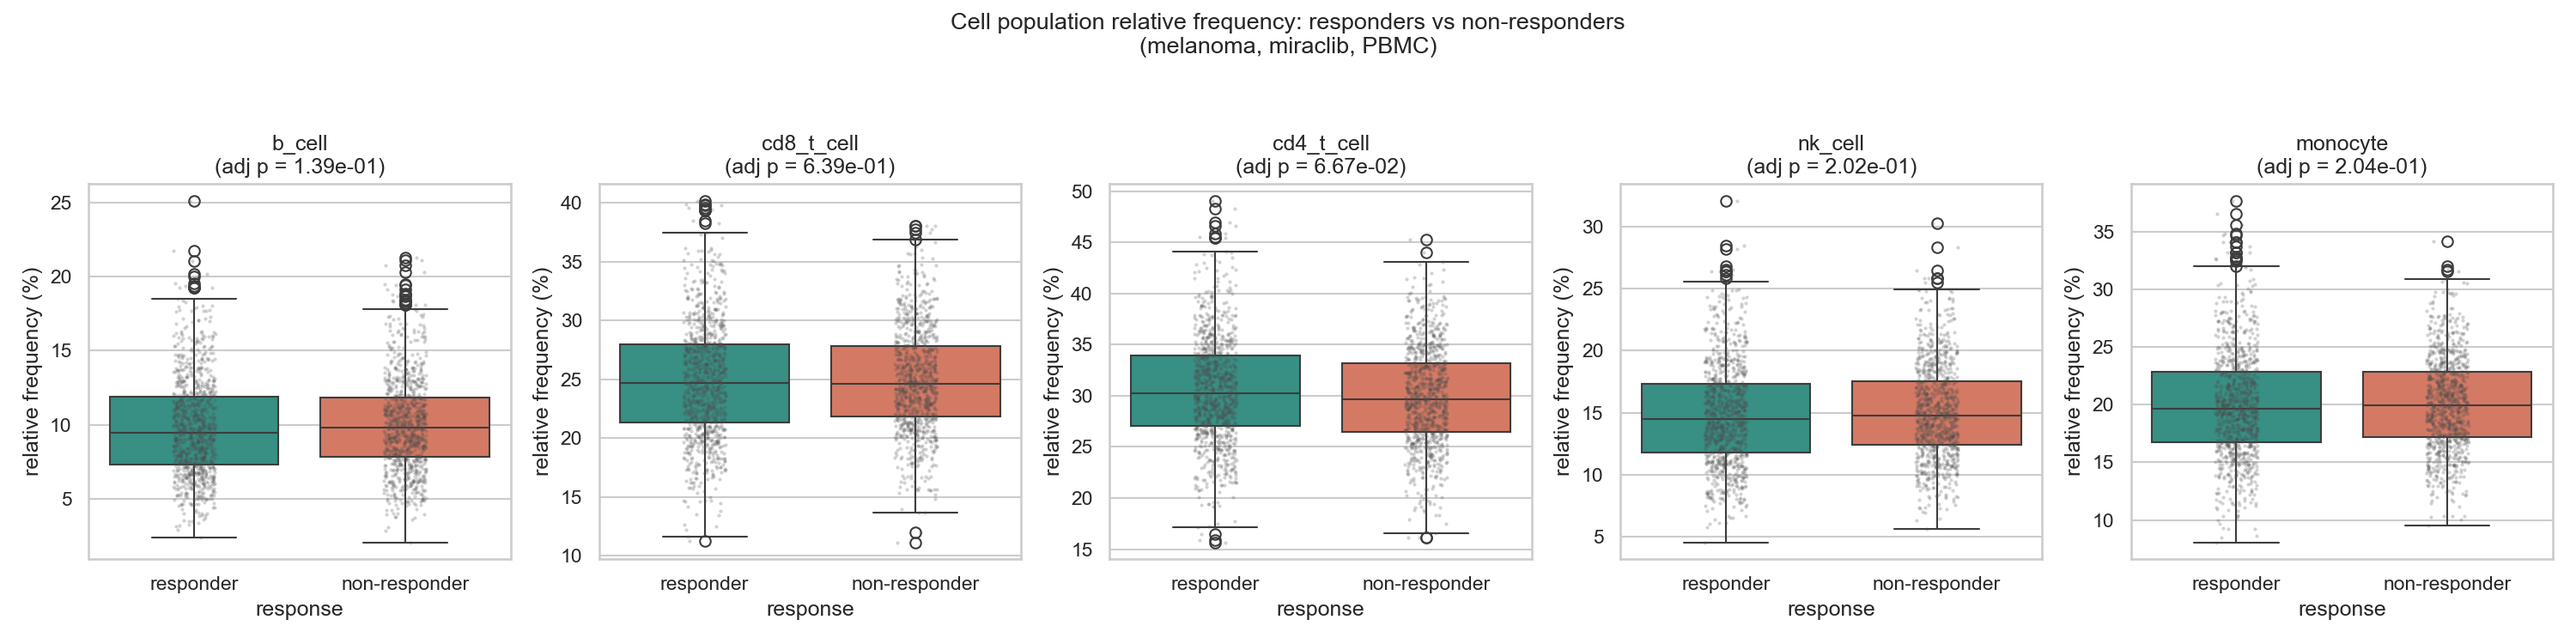
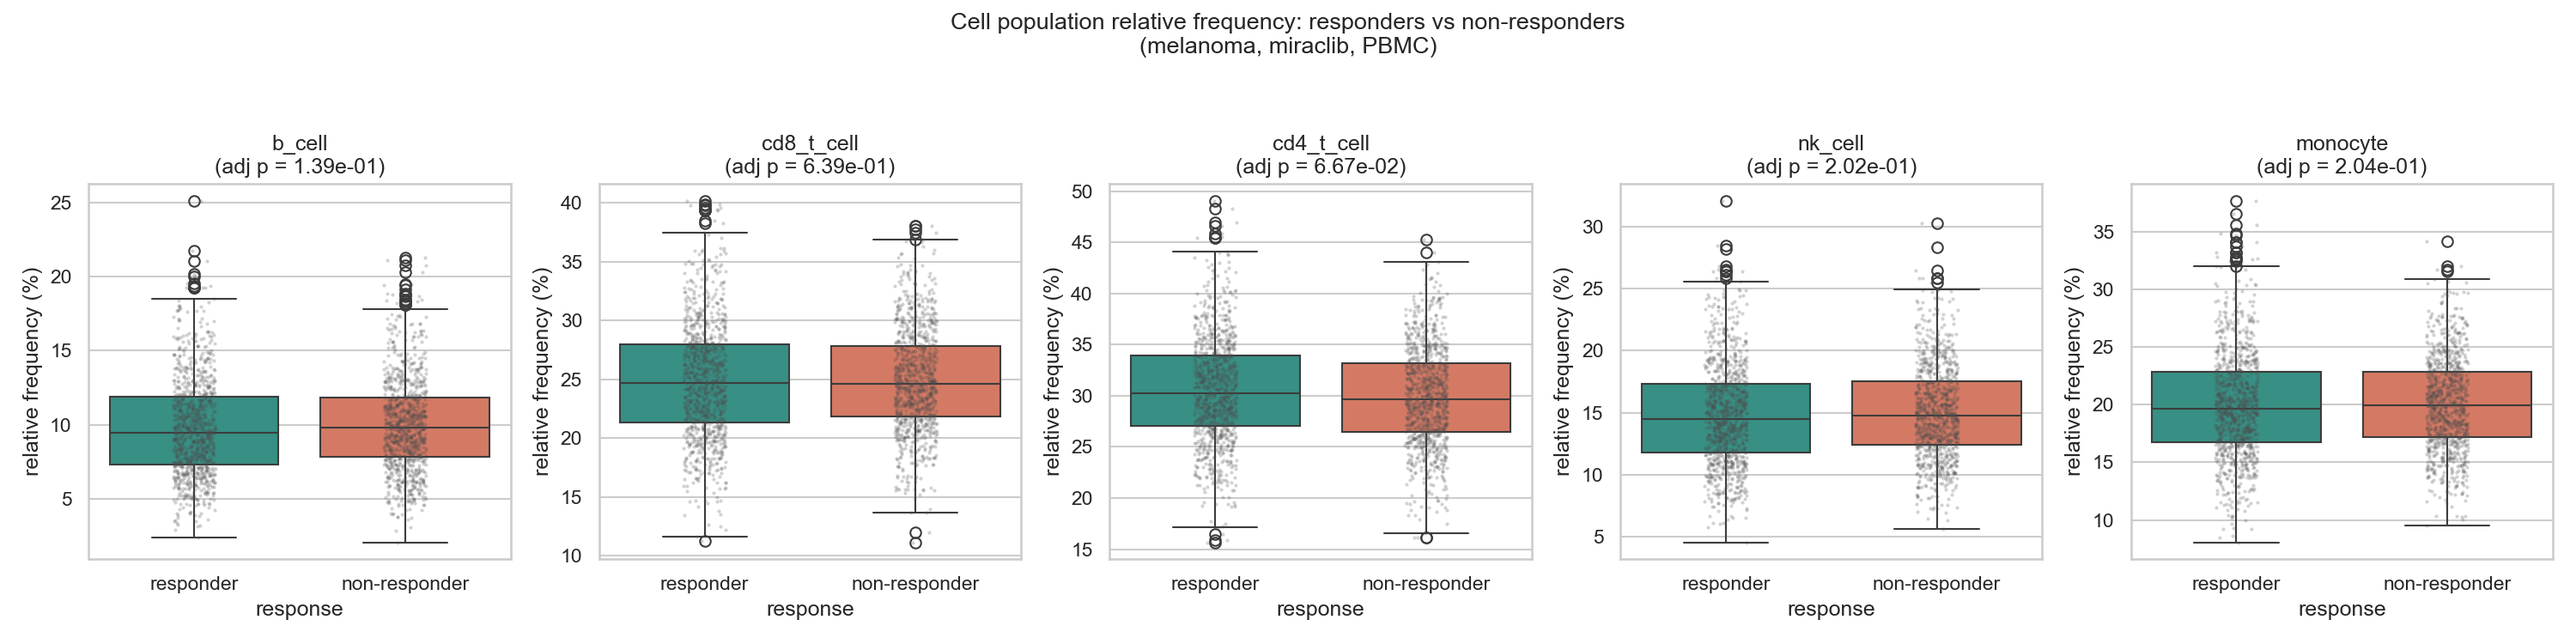
Dashboard: count Part 4 response/sex breakdowns at subject level
Add subject_id to the metadata query and dedup on it so the
'subjects by response/sex' charts remain accurate for any filter
selection (not just baseline, where 1 sample == 1 subject).

diff --git a/app.py b/app.py
@@ -43,7 +43,8 @@ def load_frames() -> dict:
             "comparison": analysis.responder_comparison_data(conn),
             "baseline": analysis.baseline_samples(conn),
             "meta": pd.read_sql_query(
-                """SELECT sa.sample_id AS sample, s.project_id AS project,
+                """SELECT sa.sample_id AS sample, s.subject_id AS subject,
+                          s.project_id AS project,
                           s.condition, s.treatment, s.response, s.sex,
                           sa.sample_type, sa.time_from_treatment_start AS time
                    FROM samples sa JOIN subjects s ON s.subject_id = sa.subject_id""",
@@ -196,6 +197,8 @@ with tab_part4:
     st.metric("Matching samples", len(subset))
 
     if len(subset):
+        # Dedup to subject level so response/sex breakdowns count subjects, not samples.
+        subj = subset.drop_duplicates("subject")
         col_a, col_b, col_c = st.columns(3)
         with col_a:
             st.markdown("**Samples per project**")
@@ -208,7 +211,7 @@ with tab_part4:
         with col_b:
             st.markdown("**Subjects by response**")
             by_resp = (
-                subset.drop_duplicates("sample").groupby("response", dropna=False)
+                subj.groupby("response", dropna=False)
                 .size().reset_index(name="n_subjects")
             )
             st.plotly_chart(
@@ -218,7 +221,7 @@ with tab_part4:
             )
         with col_c:
             st.markdown("**Subjects by sex**")
-            by_sex = subset.groupby("sex").size().reset_index(name="n_subjects")
+            by_sex = subj.groupby("sex").size().reset_index(name="n_subjects")
             st.plotly_chart(
                 px.bar(by_sex, x="sex", y="n_subjects", color="sex")
                 .update_layout(showlegend=False),
